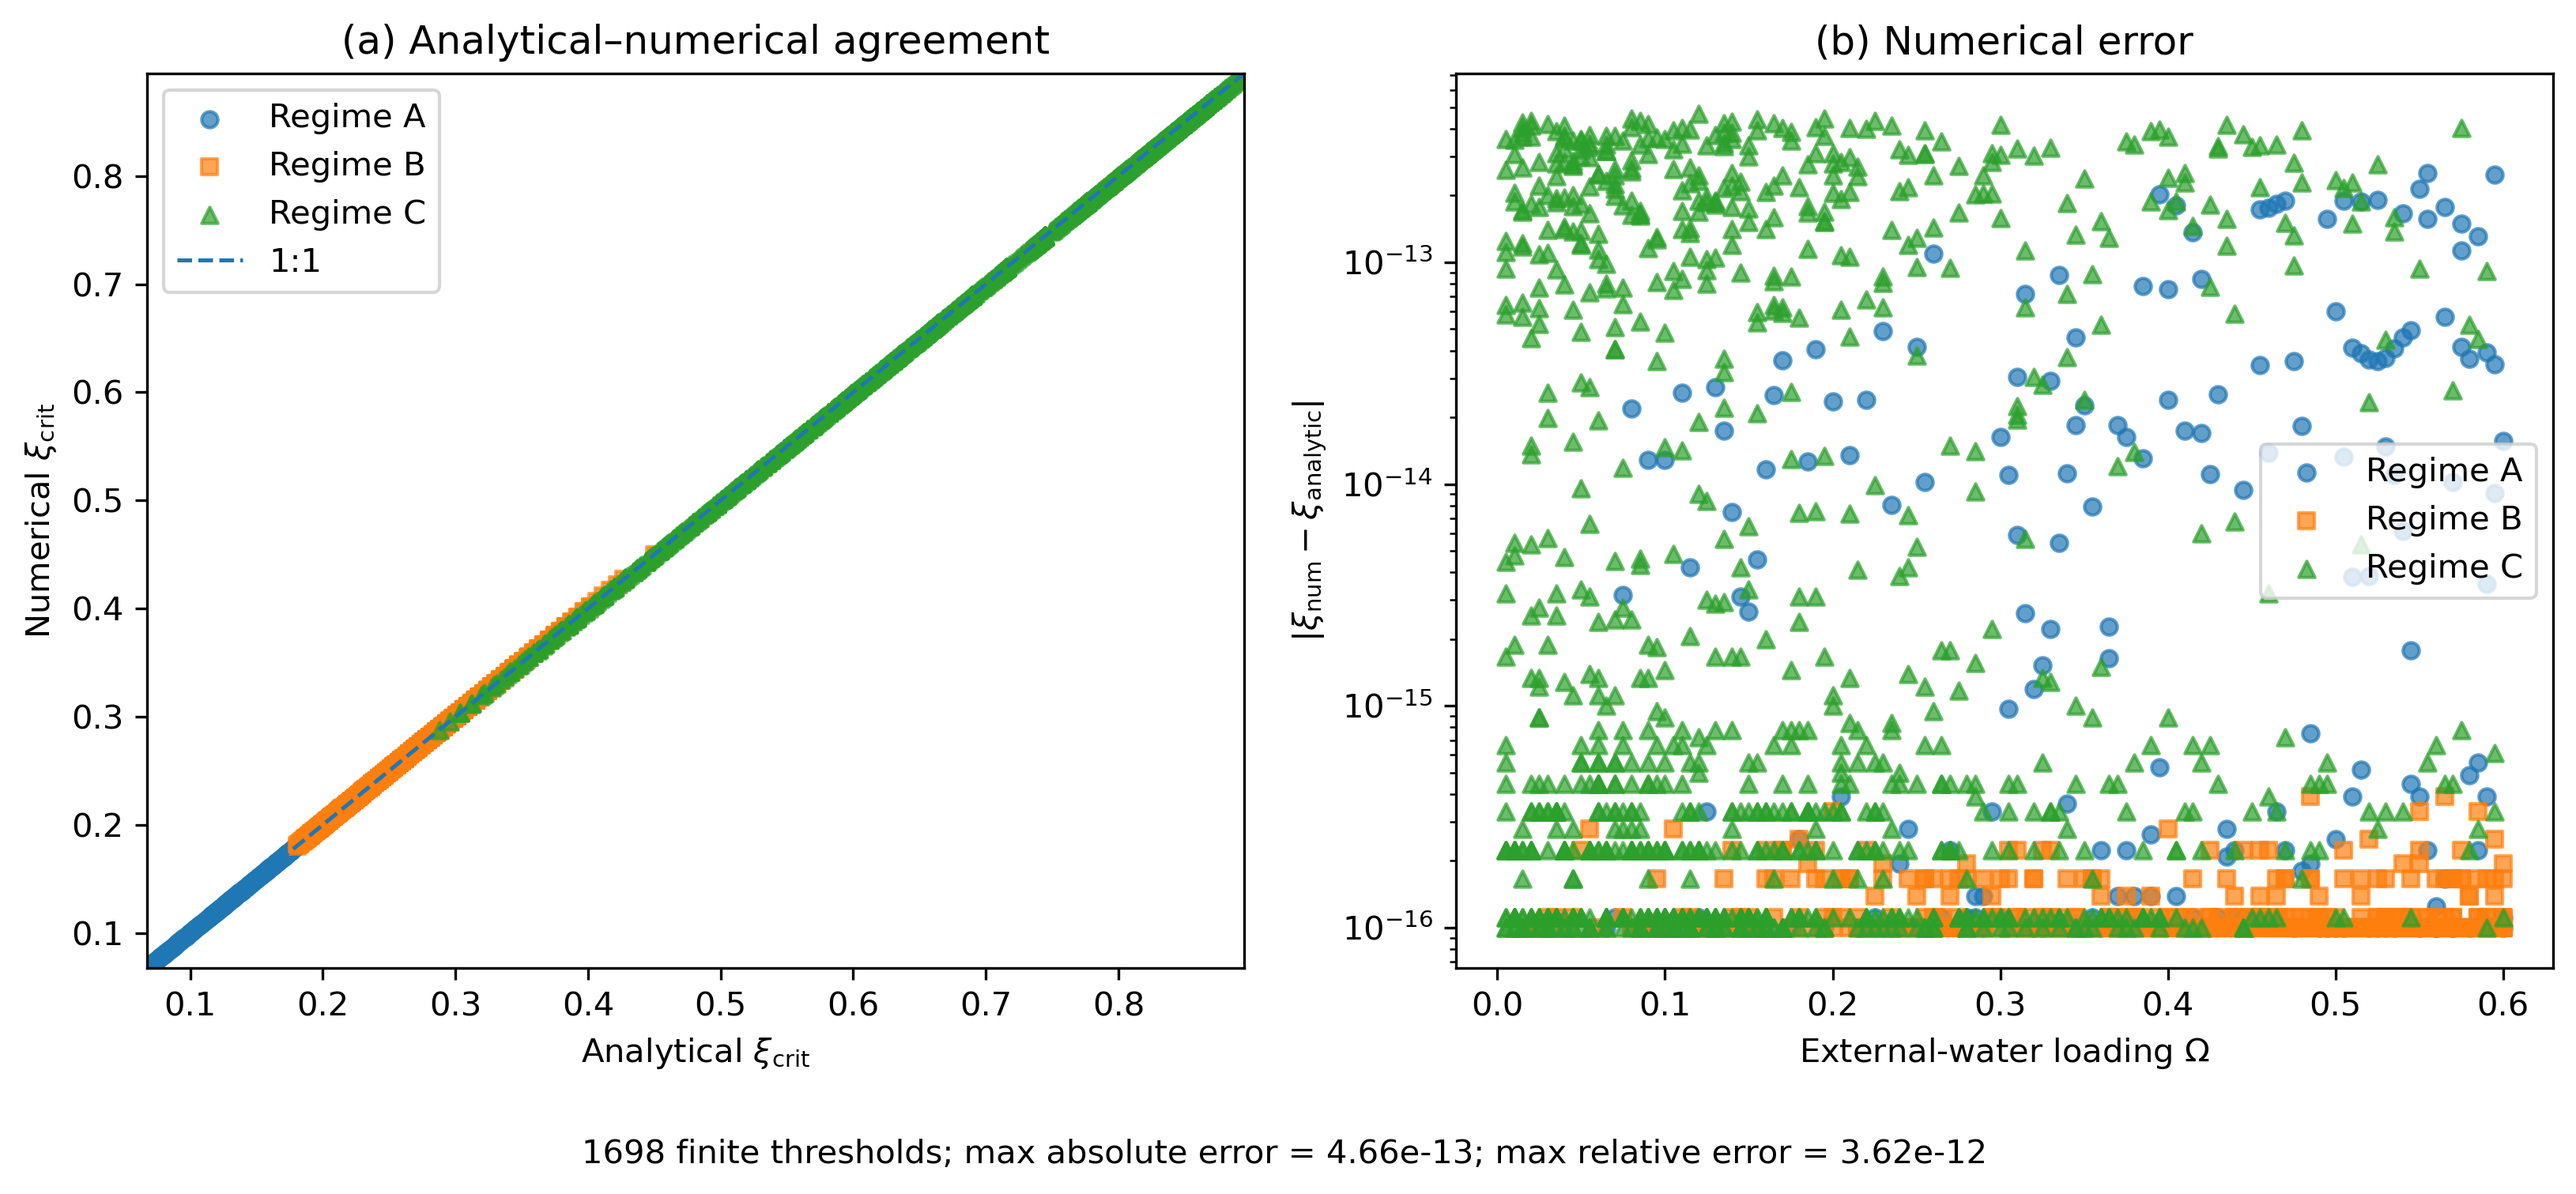
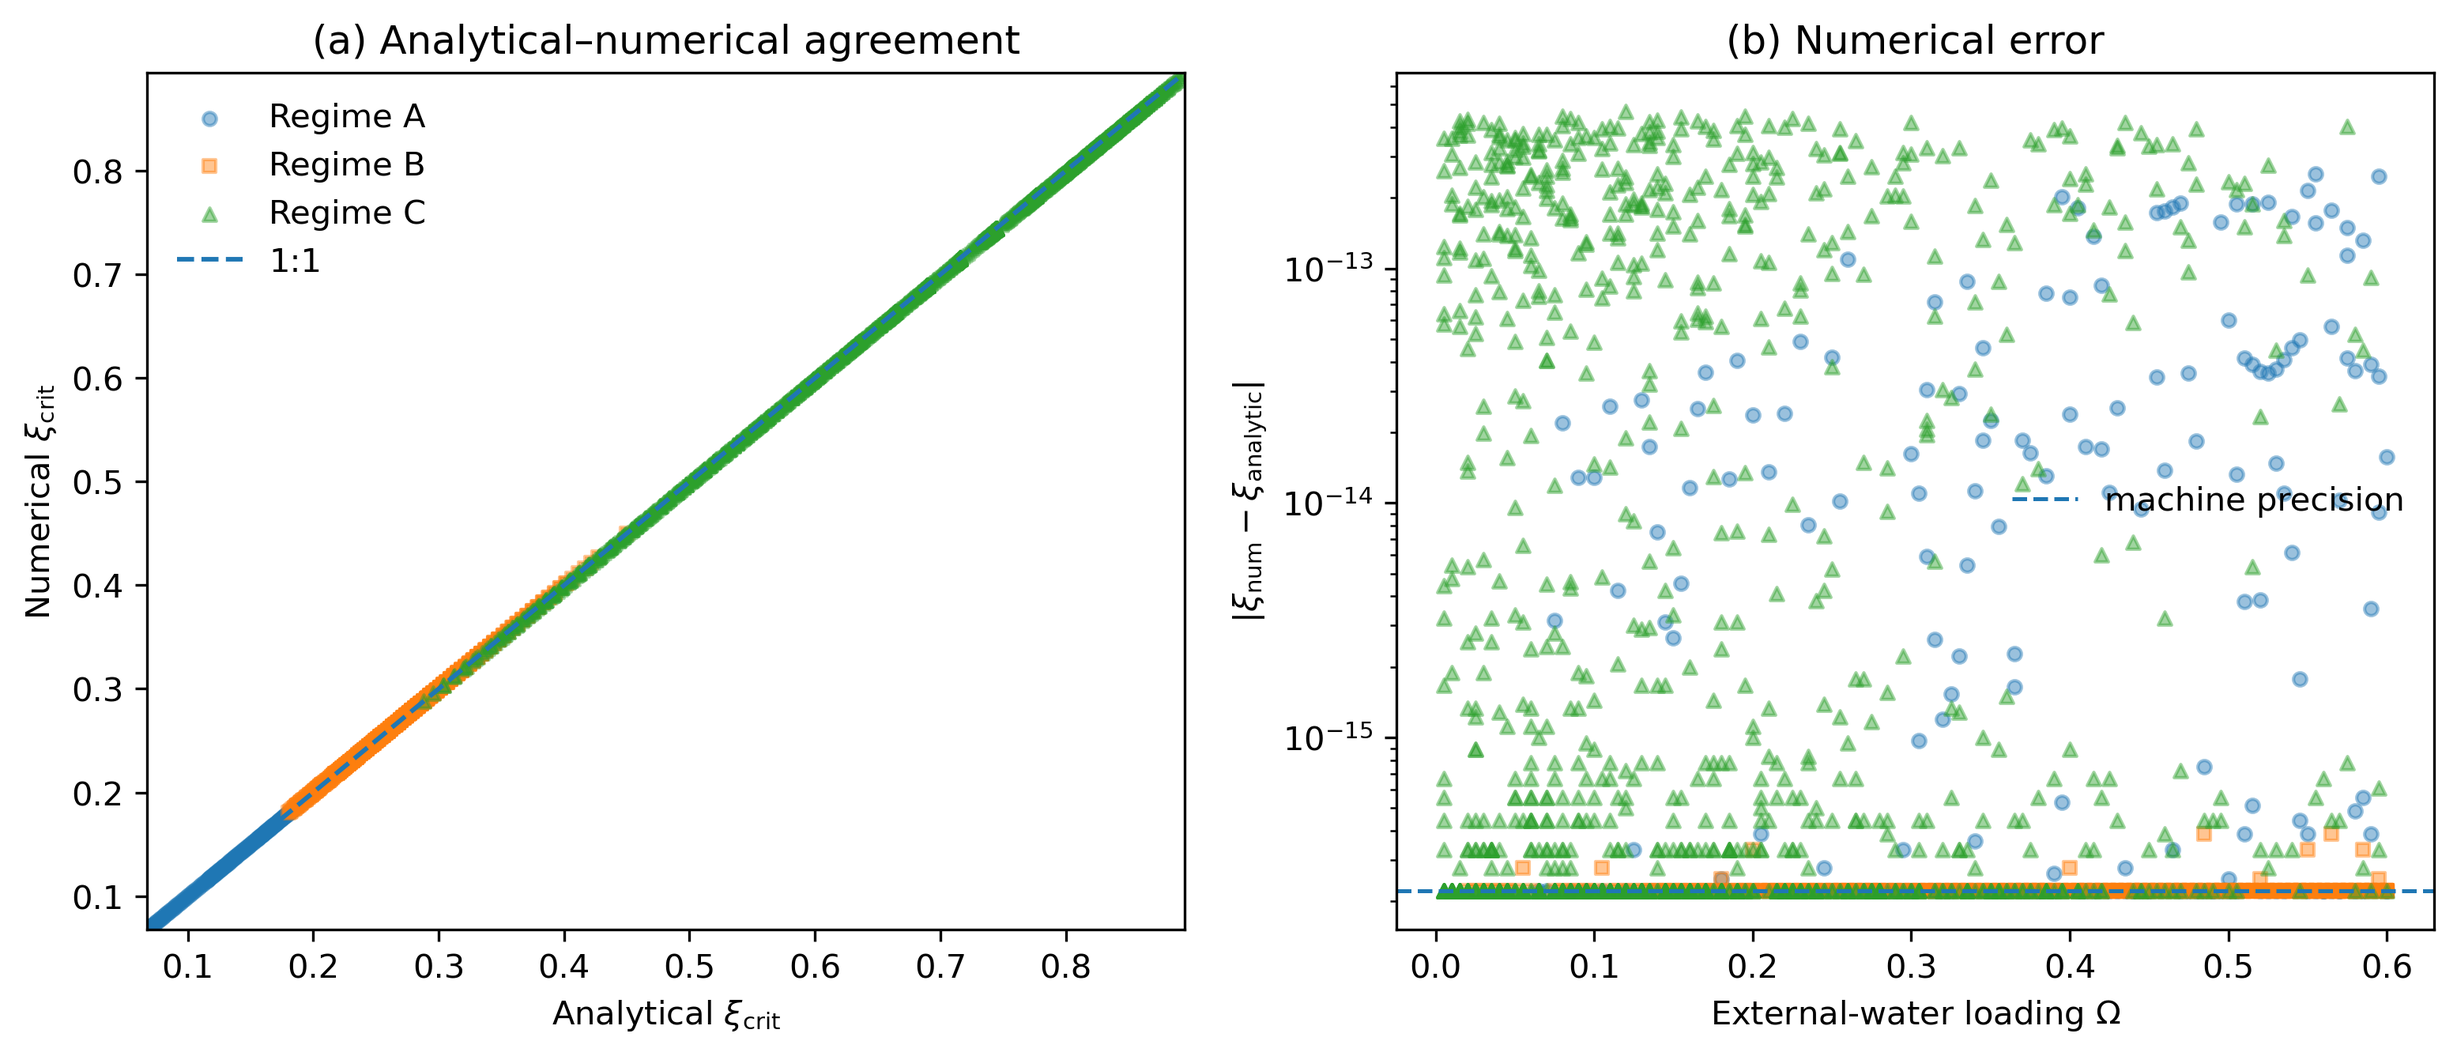
update analytical numerical validation figure

diff --git a/scripts/make_analytical_numerical_validation.py b/scripts/make_analytical_numerical_validation.py
@@ -282,16 +282,21 @@ max_rel_error = (
 fig, axes = plt.subplots(
     1,
     2,
-    figsize=(11, 5),
+    figsize=(10.5, 4.6),
 )
-
-ax = axes[0]
 
 regime_markers = {
     "A": "o",
     "B": "s",
     "C": "^",
 }
+
+
+# ------------------------------------------------------------
+# analytical versus numerical
+# ------------------------------------------------------------
+
+ax = axes[0]
 
 for regime in ("A", "B", "C"):
 
@@ -307,8 +312,8 @@ for regime in ("A", "B", "C"):
         subset["xi_analytical"],
         subset["xi_numerical"],
         marker=regime_markers[regime],
-        s=24,
-        alpha=0.7,
+        s=16,
+        alpha=0.45,
         label=f"Regime {regime}",
     )
 
@@ -327,7 +332,7 @@ ax.plot(
     limits,
     limits,
     linestyle="--",
-    linewidth=1.2,
+    linewidth=1.4,
     label="1:1",
 )
 
@@ -346,16 +351,18 @@ ax.set_title(
     "(a) Analytical–numerical agreement"
 )
 
-ax.legend()
+ax.legend(
+    frameon=False
+)
 
 
 # ------------------------------------------------------------
-# error panel
+# numerical error
 # ------------------------------------------------------------
 
 ax = axes[1]
 
-error_floor = 1e-16
+error_floor = np.finfo(float).eps
 
 for regime in ("A", "B", "C"):
 
@@ -374,10 +381,16 @@ for regime in ("A", "B", "C"):
             error_floor,
         ),
         marker=regime_markers[regime],
-        s=24,
-        alpha=0.7,
-        label=f"Regime {regime}",
+        s=16,
+        alpha=0.45,
     )
+
+ax.axhline(
+    error_floor,
+    linestyle="--",
+    linewidth=1.2,
+    label="machine precision",
+)
 
 ax.set_yscale("log")
 
@@ -393,23 +406,12 @@ ax.set_title(
     "(b) Numerical error"
 )
 
-ax.legend()
-
-
-fig.text(
-    0.5,
-    0.01,
-    (
-        f"{len(comparison)} finite thresholds; "
-        f"max absolute error = {max_abs_error:.2e}; "
-        f"max relative error = {max_rel_error:.2e}"
-    ),
-    ha="center",
+ax.legend(
+    frameon=False
 )
 
-fig.tight_layout(
-    rect=(0.0, 0.05, 1.0, 1.0)
-)
+
+fig.tight_layout()
 
 fig.savefig(
     png_path,
